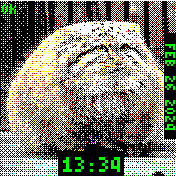
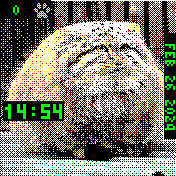
fix version number and clean up paw print and pedometer cut out, then move time up and change to nicer font

diff --git a/apps/roundboy/app.js b/apps/roundboy/app.js
@@ -1,6 +1,9 @@
 // timeout used to update every minute
 var drawTimeout;
 
+// import font
+require("Font4x5").add(Graphics);
+
 // schedule a draw for the next minute
 function queueDraw() {
   if (drawTimeout) clearTimeout(drawTimeout);
@@ -12,8 +15,7 @@ function queueDraw() {
 
 function getSteps() {
   var steps = Bangle.getHealthStatus("day").steps;
-  steps = Math.round(steps/1000);
-  return steps + "k";
+  return steps;
 }
 
 function draw() {
@@ -25,26 +27,30 @@ function draw() {
   var x = 0;
   var y = g.getHeight()/2;
[1 lines of base64/hex data omitted]
-  timeX = g.getWidth()/2 + 5;
-  timeY = g.getHeight() - 20;
+  timeX = g.getWidth()/5;
+  timeY = g.getHeight() - 75;
   dateX = g.getWidth() - 8;
   dateY = g.getHeight()/2;
   g.reset();
   g.setTheme({bg:"#000000",fg:"#00ff00"});
-  g.setFontAlign(0,0).setFont("4x6",2.5);
-  g.drawString(getSteps(), 10, 10);
+  g.setFontAlign(0,0).setFont("4x6",2);
+  // clear the background for steps
+  g.clearRect(0,0,50,18);
+  // draw steps
+  g.drawString(getSteps(), 17, 11);
[1 lines of base64/hex data omitted]
   // draw date
   var date = new Date();
   var dateStr = require("locale").date(date).toUpperCase();
   g.setFontAlign(0,0,1).setFont("4x6",2.5);
-  // clear the background
+  // clear the background for date
   g.clearRect(dateX-4,dateY+50,dateX+8,dateY-55);
   g.drawString(dateStr,dateX,dateY);
   // draw time
   var timeStr = require("locale").time(date,1);
-  g.setFontAlign(0,0).setFont("4x6",3);
-  // clear the background
-  g.clearRect(timeX-35,timeY-5,timeX+30,timeY+21);
+  g.setFontAlign(0,0).setFont("4x5",3);
+  // clear the background for time
+  g.clearRect(timeX-32,timeY,timeX+28,timeY+19);
   g.drawString(timeStr,timeX,timeY+10);
   }
 
